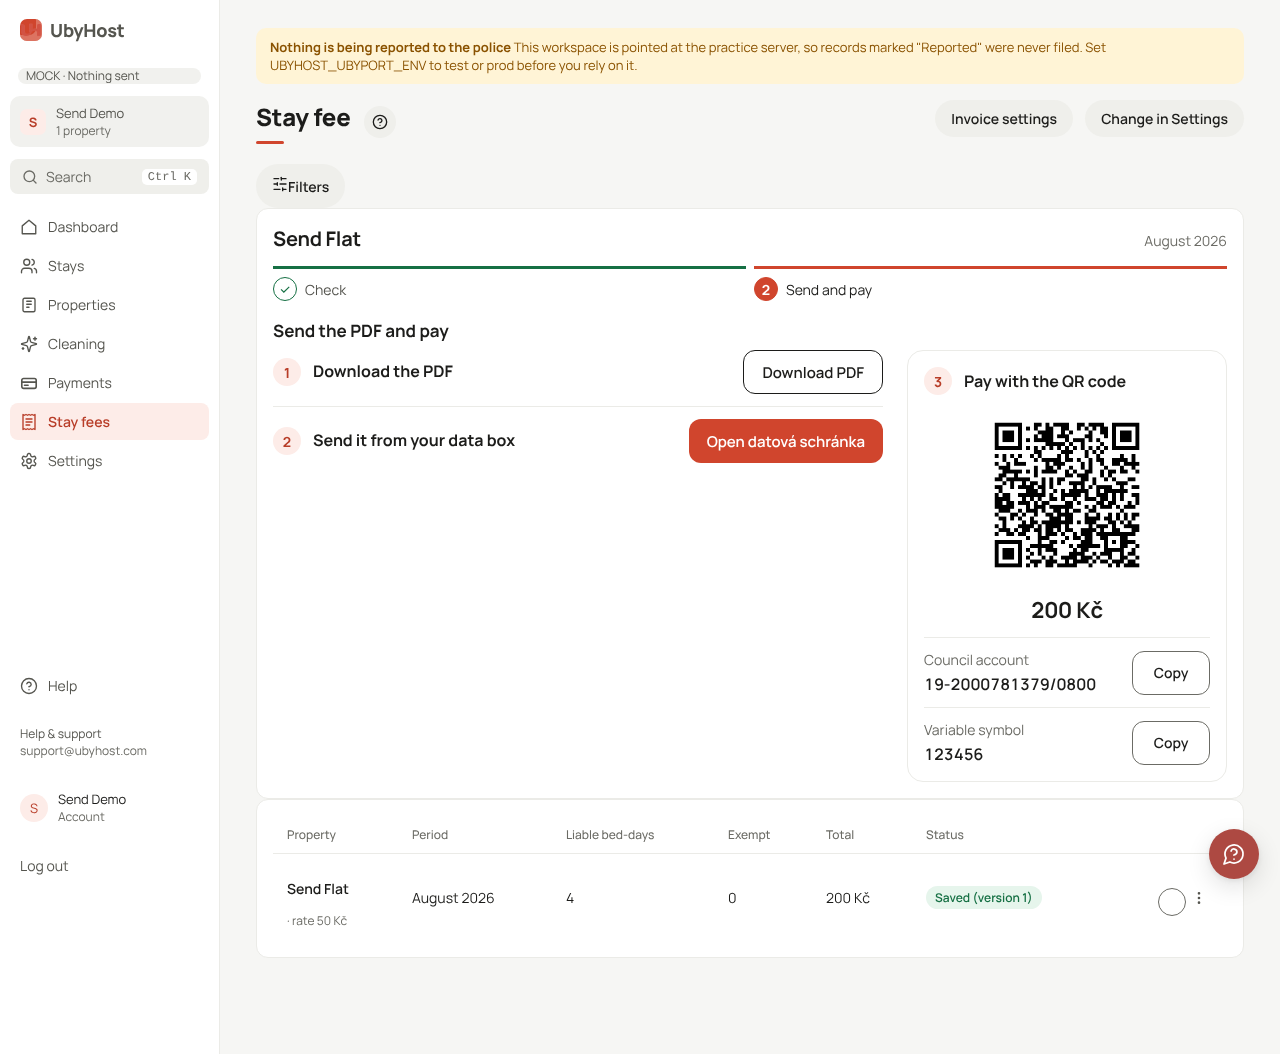
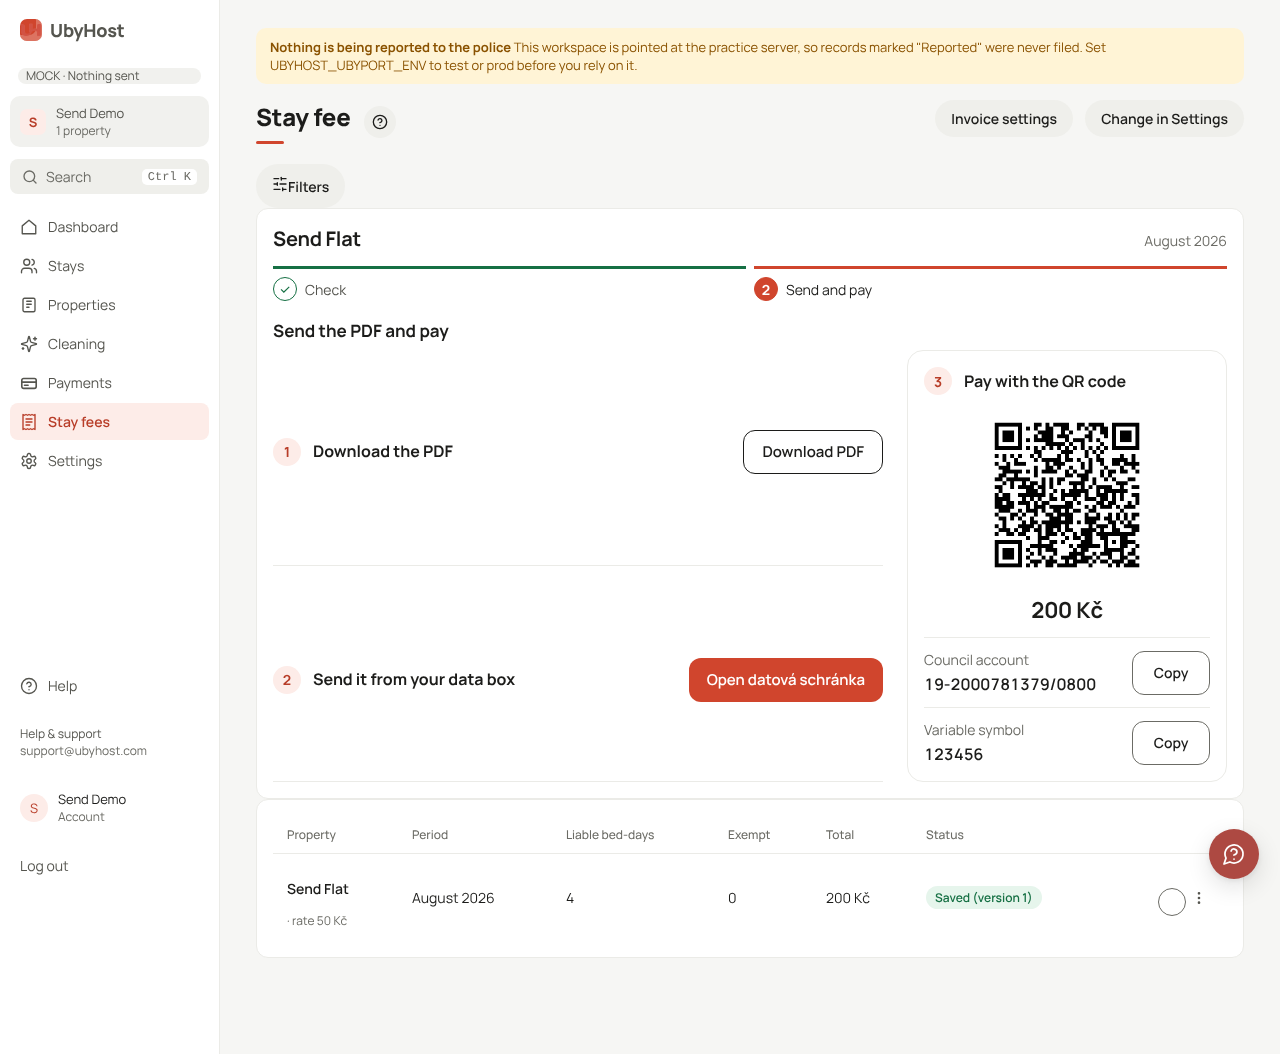
0896: step rows fill the column height beside the QR card
Claude-Session: https://claude.ai/code/session_01Cjmb7Mts1TAZHyqs198DaA

diff --git a/App/app/static/app2.css b/App/app/static/app2.css
@@ -1136,6 +1136,7 @@ body.v2 .stay-fees-page .fee-qr-meta dd{display:contents}
 body.v2 .stay-fees-page .fee-qr-val{grid-column:1;grid-row:2;min-width:0;font-size:16px;font-weight:600;white-space:nowrap;font-variant-numeric:tabular-nums}
 body.v2 .stay-fees-page .fee-qr-meta .btn.small[data-copy]{grid-column:2;grid-row:1 / span 2;width:auto;min-width:44px;min-height:44px;padding:0 14px;border-radius:12px;background:#fff;color:var(--ink);border:1px solid var(--ink3);font-size:14px;font-weight:600}
 @media (min-width:1024px) and (max-width:1279px){body.v2 .stay-fees-page .fee-tasks li{grid-template-columns:28px minmax(0,1fr)}body.v2 .stay-fees-page .fee-tasks li .btn{grid-column:2;justify-self:start}}
+@media (min-width:1024px){body.v2 .stay-fees-page .fee-send-pay{align-items:stretch}body.v2 .stay-fees-page .fee-tasks{height:100%;display:flex;flex-direction:column}body.v2 .stay-fees-page .fee-tasks li{flex:1 1 0}body.v2 .stay-fees-page .fee-tasks li:last-child{border-bottom:1px solid var(--line)}}
 @media (max-width:1023px){
   body.v2 .stay-fees-page .fee-send-pay{grid-template-columns:minmax(0,1fr)}body.v2 .stay-fees-page .fee-qr-panel{order:-1;padding:0;border:0;border-radius:0}body.v2 .stay-fees-page .fee-qr-n{display:none}
   body.v2 .stay-fees-page .fee-tasks li{grid-template-columns:28px minmax(0,1fr)}body.v2 .stay-fees-page .fee-tasks li .btn{grid-column:1 / -1;min-height:50px;font-size:16px}

diff --git a/App/app/templates/base.html b/App/app/templates/base.html
@@ -18,7 +18,7 @@
   <link rel="preload" href="/static/fonts/Manrope-latin.woff2?v=20261101-0495" as="font" type="font/woff2" crossorigin>
   {% if v2 | default(false) %}
   <link rel="stylesheet" href="/static/tokens.css?v=20261101-0495">
-  <link rel="stylesheet" href="/static/app2.css?v=20261103-0896">
+  <link rel="stylesheet" href="/static/app2.css?v=20261103-0896b">
   {% else %}
   <link rel="stylesheet" href="/static/tokens.css?v=20261101-0495">
   <link rel="stylesheet" href="/static/app.css?v=20261027-signup-wrap">
